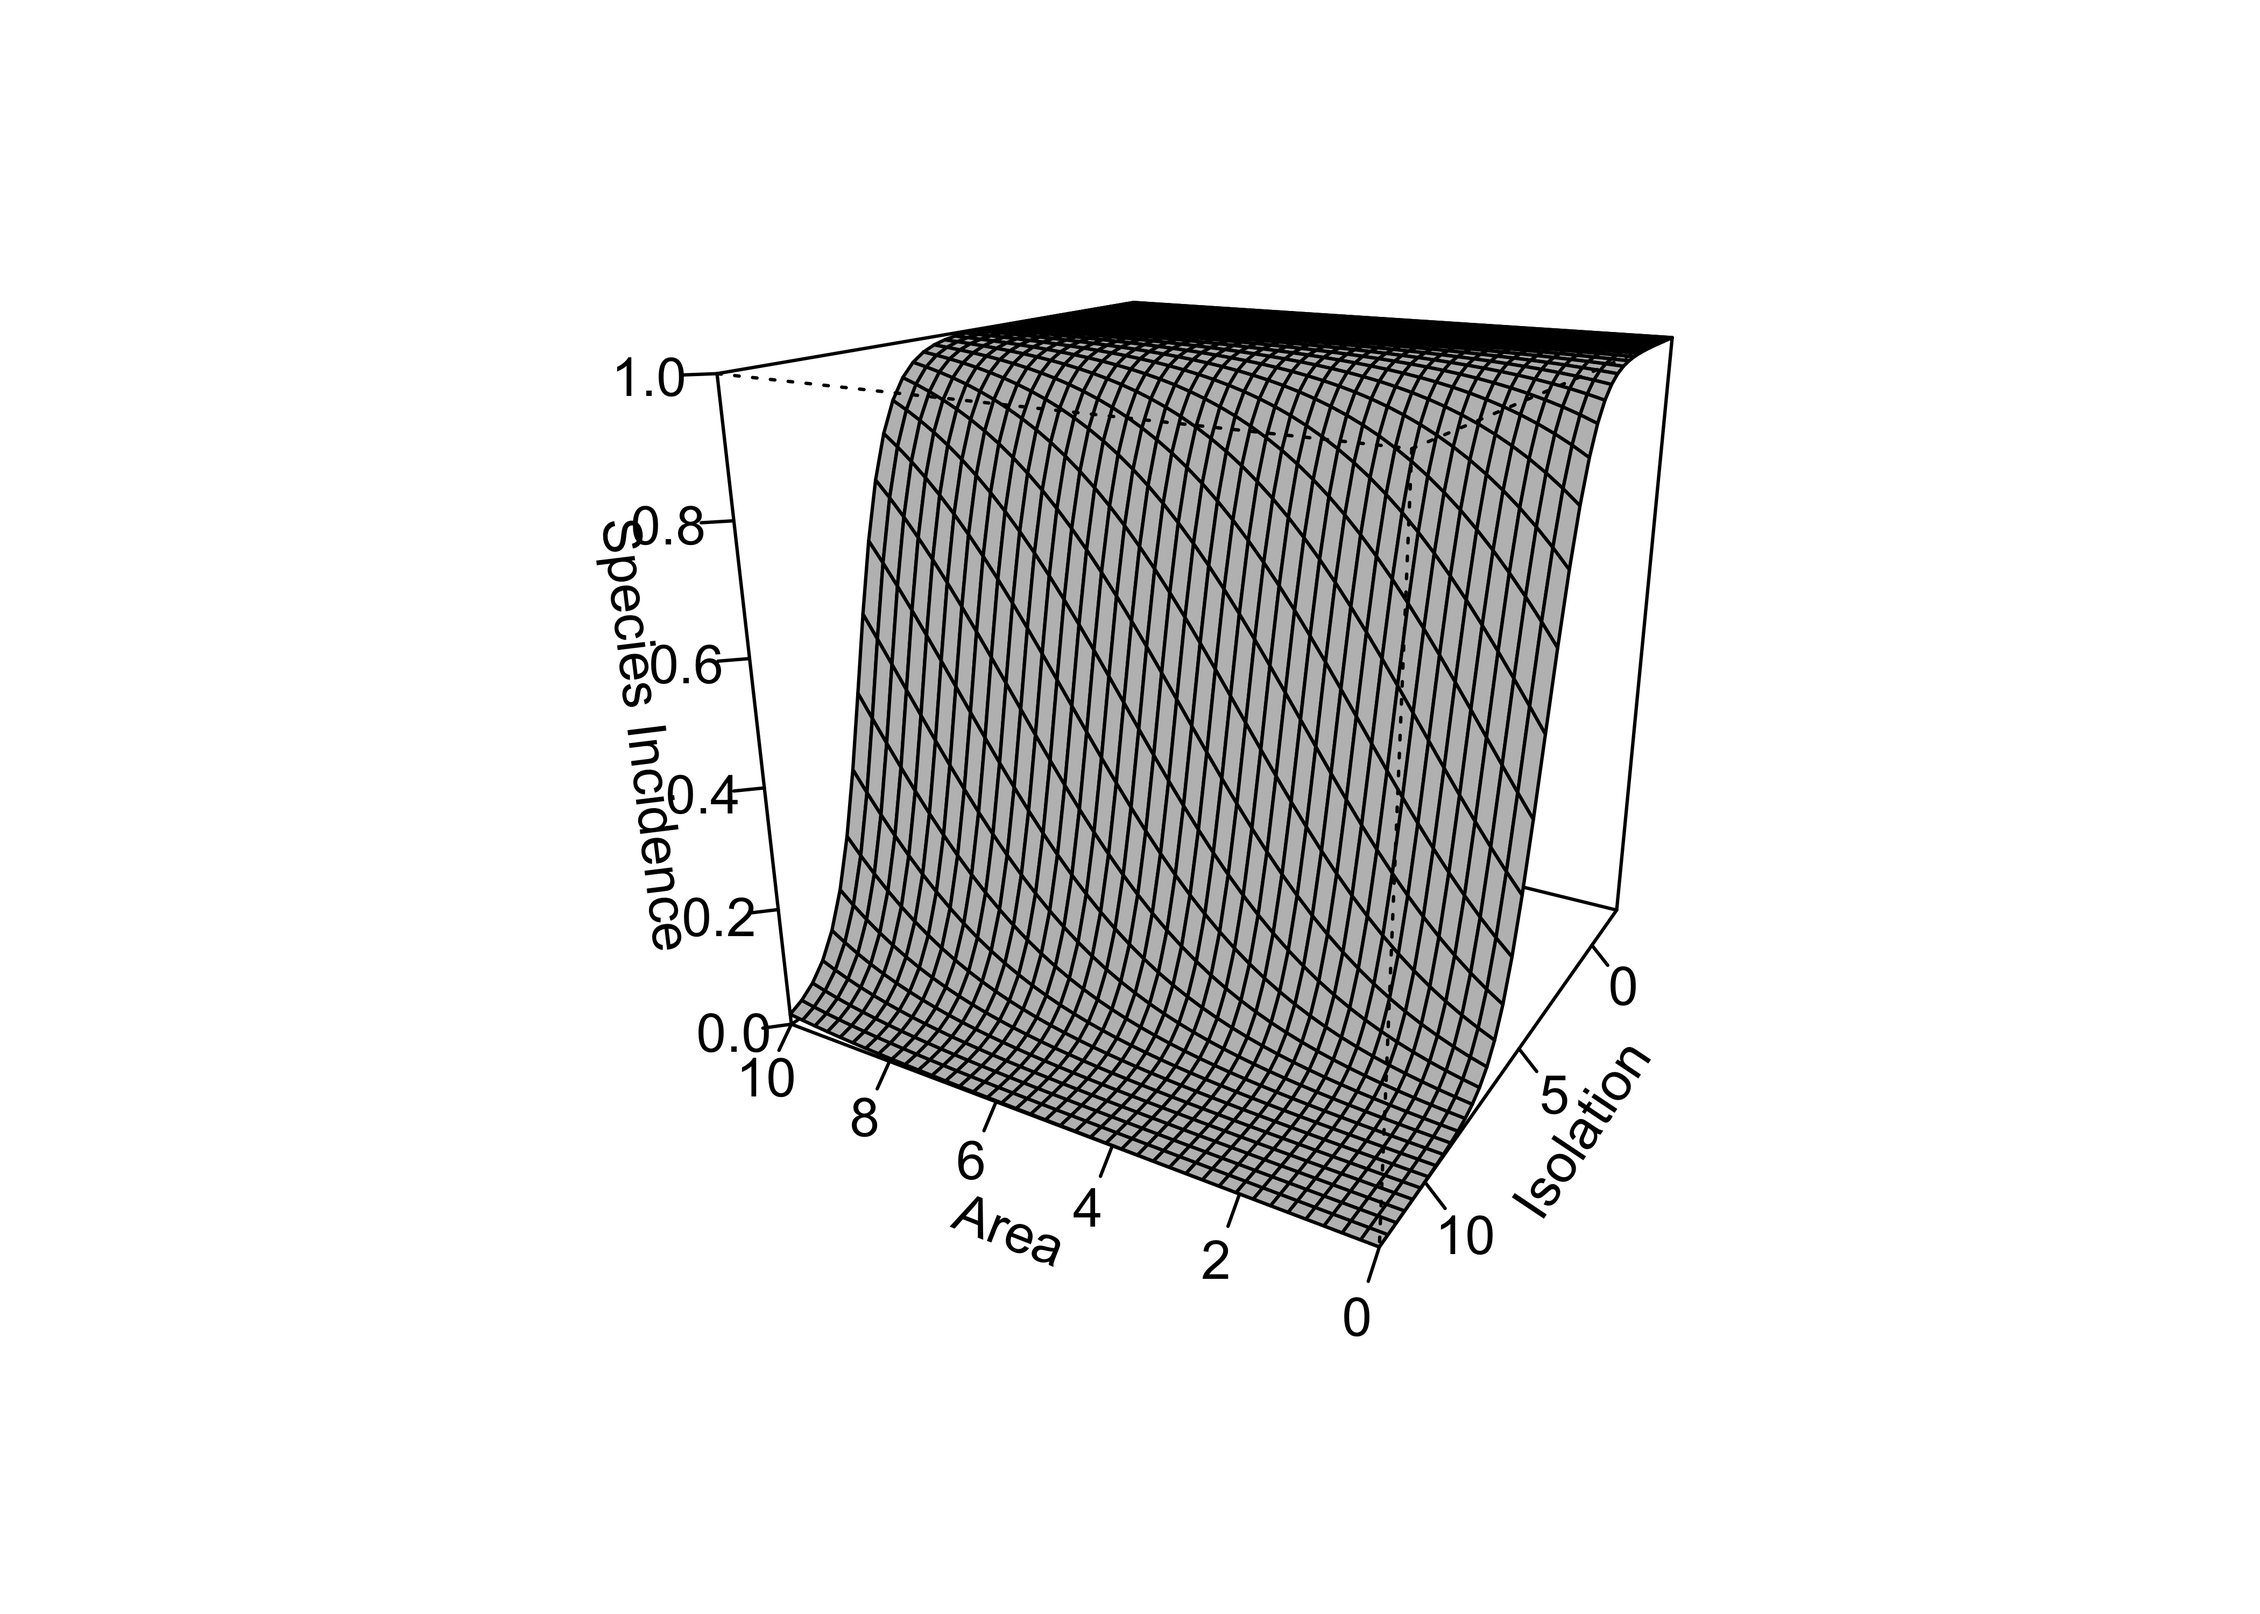
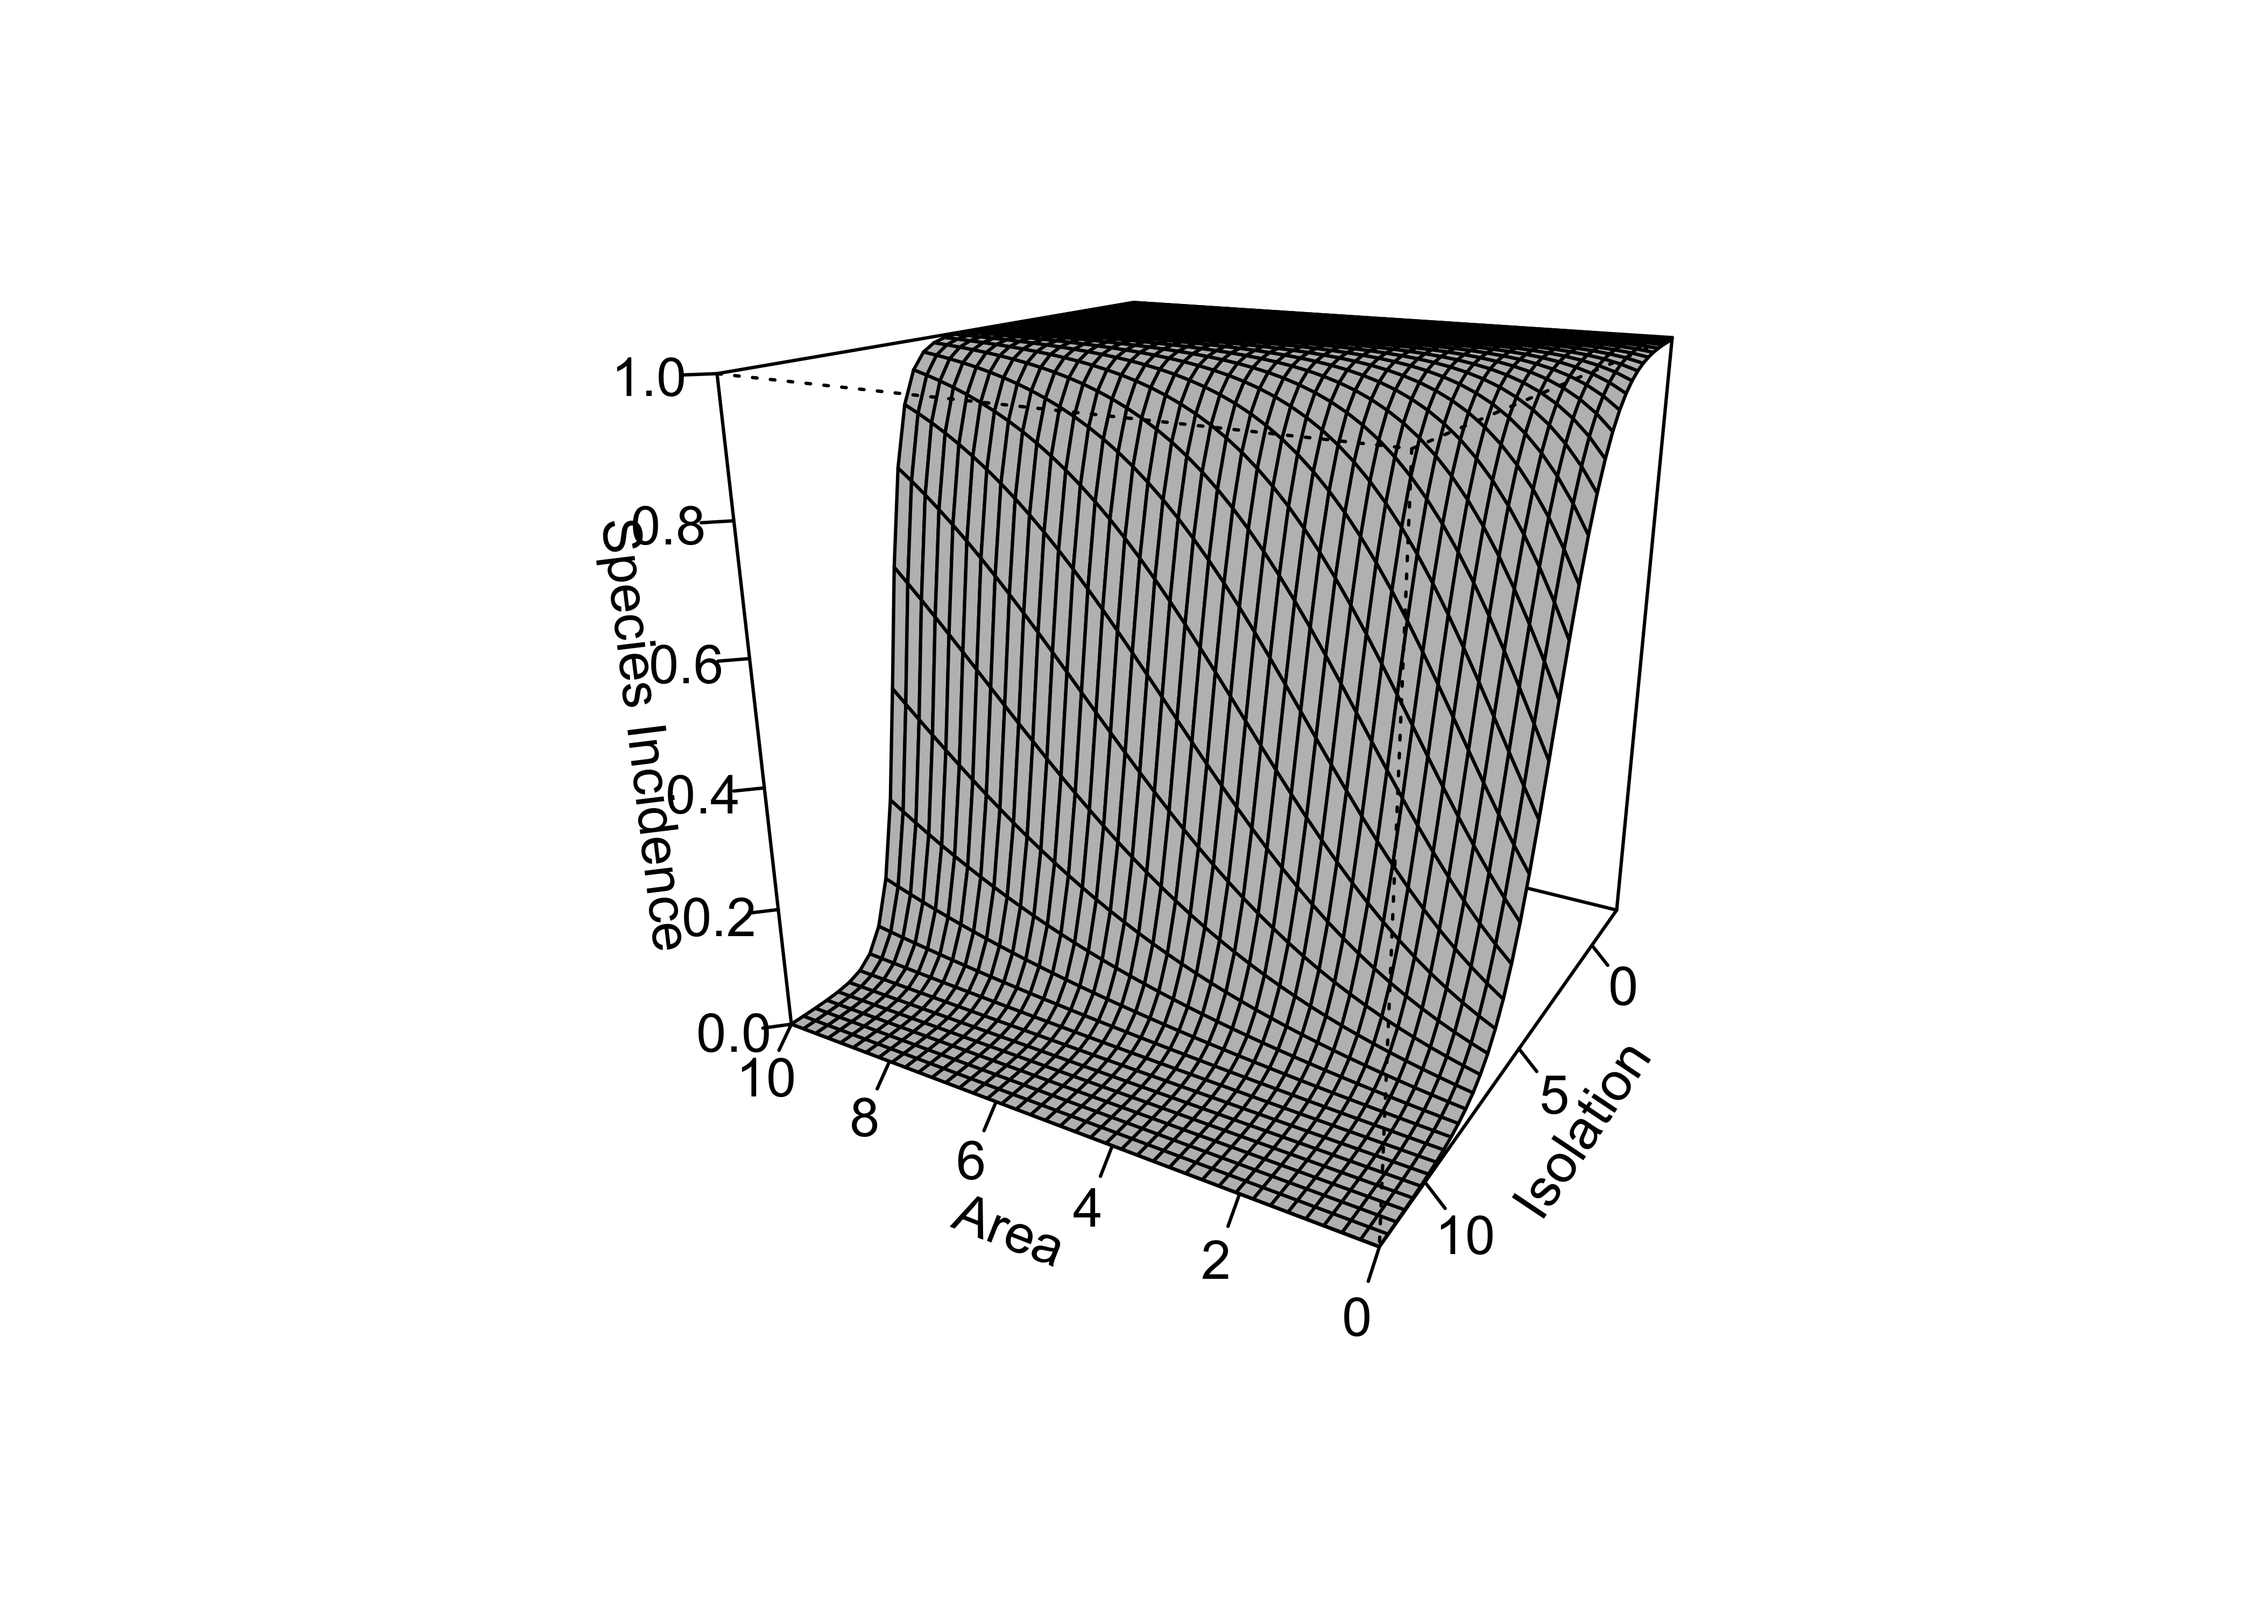
edited lec15.Rmd

Changed region(s): [[0.3431, 0.186, 0.7486, 0.775]]

diff --git a/docs/lec15.html b/docs/lec15.html
@@ -833,7 +833,7 @@ $(document).ready(function () {
 ## 
 ## Number of Fisher Scoring iterations: 7</code></pre>
 <div class="sourceCode" id="cb36"><pre class="sourceCode r"><code class="sourceCode r"><a class="sourceLine" id="cb36-1" data-line-number="1">island_glm2_sfc  &lt;-<span class="st"> </span><span class="kw">matrix</span>(<span class="kw">predict</span>(island_glm2, new_x, <span class="dt">type=</span><span class="st">&quot;response&quot;</span>),<span class="dv">40</span>,<span class="dv">40</span>)</a>
-<a class="sourceLine" id="cb36-2" data-line-number="2"><span class="kw">persp</span>(new_area, new_isolation, island_glm1_sfc, <span class="dt">theta=</span><span class="op">-</span><span class="dv">150</span>, <span class="dt">phi=</span><span class="dv">20</span>, <span class="dt">d=</span><span class="fl">1.5</span>, </a>
+<a class="sourceLine" id="cb36-2" data-line-number="2"><span class="kw">persp</span>(new_area, new_isolation, island_glm2_sfc, <span class="dt">theta=</span><span class="op">-</span><span class="dv">150</span>, <span class="dt">phi=</span><span class="dv">20</span>, <span class="dt">d=</span><span class="fl">1.5</span>, </a>
 <a class="sourceLine" id="cb36-3" data-line-number="3">  <span class="dt">col=</span><span class="st">&quot;gray&quot;</span>, <span class="dt">ticktype=</span><span class="st">&quot;detailed&quot;</span>,  <span class="dt">zlim=</span><span class="kw">c</span>(<span class="dv">0</span>,<span class="dv">1</span>), <span class="dt">xlab=</span><span class="st">&quot;Area&quot;</span>, </a>
 <a class="sourceLine" id="cb36-4" data-line-number="4">  <span class="dt">ylab=</span><span class="st">&quot;Isolation&quot;</span>, <span class="dt">zlab =</span> <span class="st">&quot;Species Incidence&quot;</span>)</a></code></pre></div>
 <p><img src="lec15_files/figure-html/unnamed-chunk-2-1.png" width="2100" /></p>
